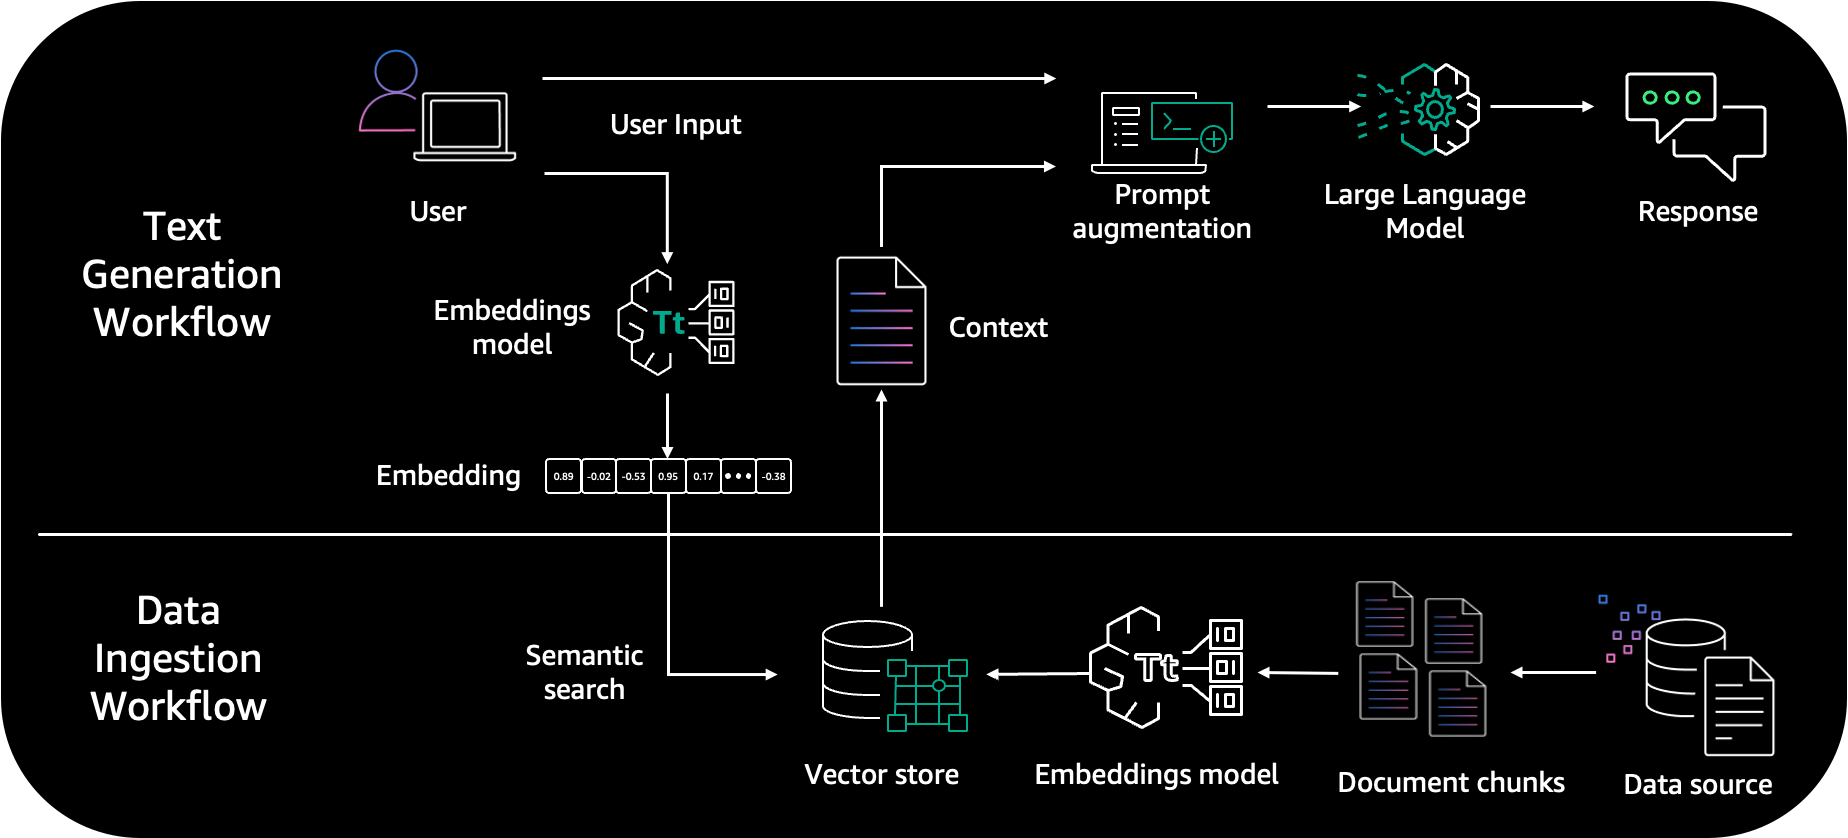
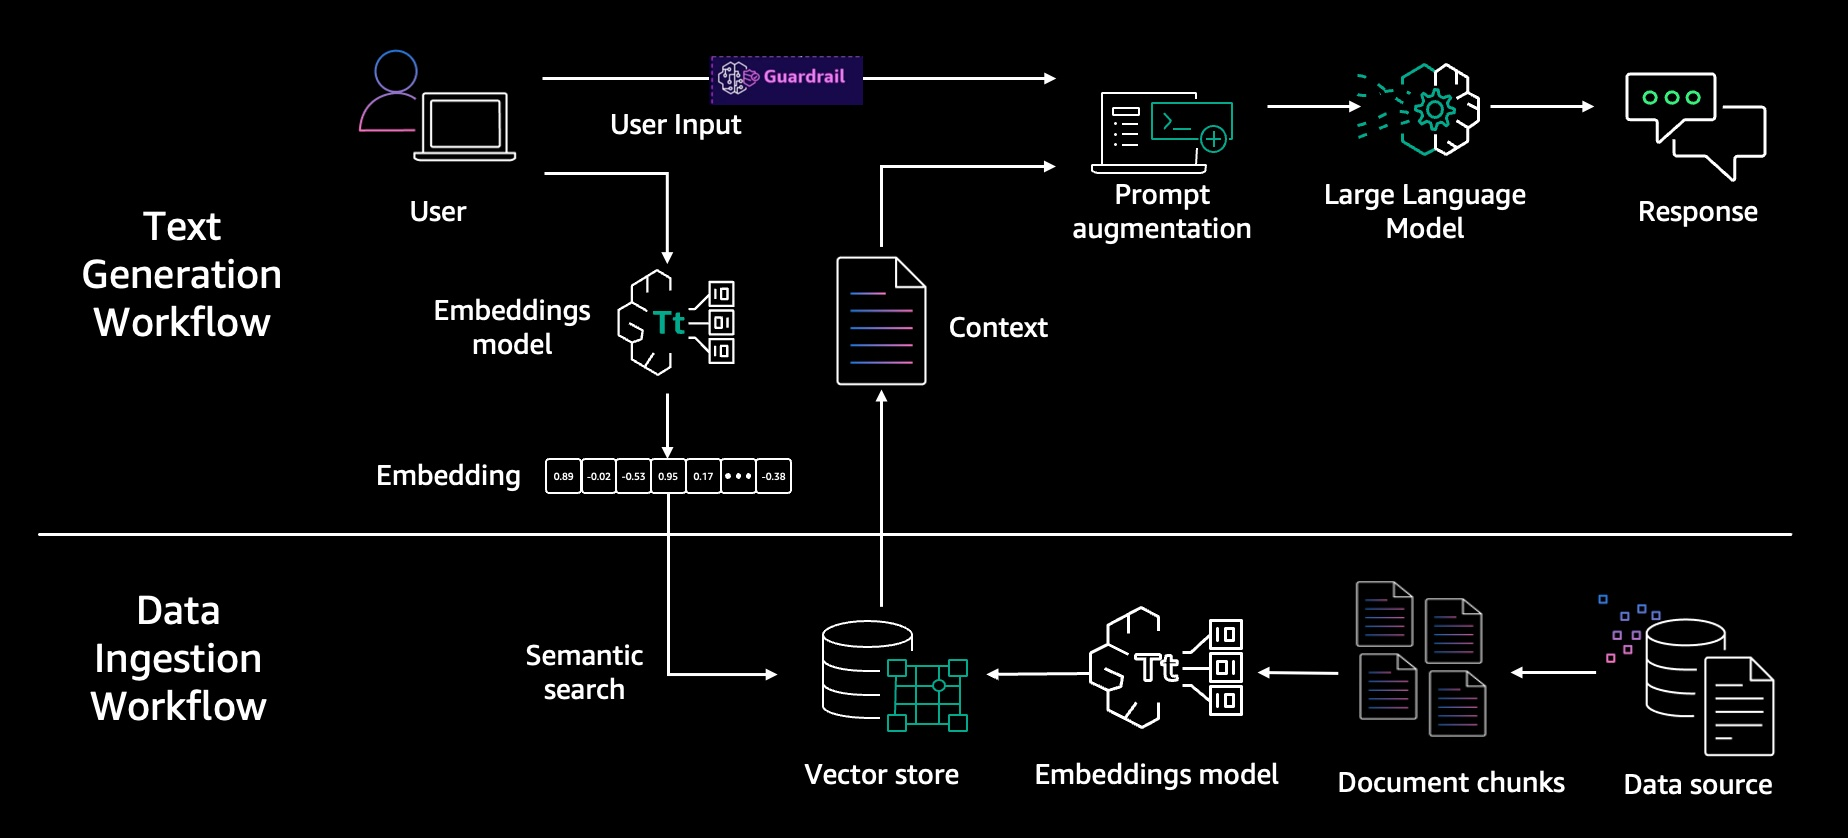
Updated the Readme and the Guardrail screenshot to make a step more clear.

diff --git a/rag-solutions/contextual-chatbot-using-knowledgebase-guardrails/README.md b/rag-solutions/contextual-chatbot-using-knowledgebase-guardrails/README.md
@@ -14,7 +14,7 @@ RAG is an approach to natural language generation that incorporates information 
 
 The data ingestion workflow uses LLMs to create embedding vectors that represent semantic meaning of texts. Embeddings are created for documents and user questions. The document embeddings are split into chunks and stored as indexes in a vector database. The text generation workflow then takes a question's embedding vector and uses it to retrieve the most similar document chunks based on vector similarity. It augments prompts with these relevant chunks to generate an answer using the LLM. For more details, refer to the Primer on Retrieval Augmented Generation, Embeddings, and Vector Databases section in [Preview – Connect Foundation Models to Your Company Data Sources with Agents for Amazon Bedrock](https://aws.amazon.com/blogs/aws/preview-connect-foundation-models-to-your-company-data-sources-with-agents-for-amazon-bedrock/).
 
-The following diagram illustrates the high-level RAG architecture.
+The following diagram illustrates the high-level RAG architecture with a Guardrail.
 
 </br><img src="images/architecture_1.jpg" alt="architecture1" width="800" align="center"/></br>
 
@@ -144,6 +144,8 @@ In this step, create a knowledge base using the Amazon shareholder letters datas
 
 </br><img src="images/kb-readysync.jpg" alt="kb-readysync" width="800" align="center"/></br>
 
+Congratulations, your Knowledge base is ready.
+
 20. Create a Guardrail
 </br><img src="images/gr-image.png" alt="gr-image" width="175" align="center"/></br>
 Click on the Create guardrail buttnon
@@ -155,7 +157,7 @@ Click next untill you reach to the  **Add word filters - optional** screen. Then
 Once the guardrail is created now we need to add a version. **Take a note of guardrail id.**
 </br><img src="images/gr-version.png" alt="gr-version" width="600" align="center"/></br>
 
-Congratulations, your Knowledge base is ready. 
+Congratulations, your Guardrail is ready. 
 
 Note that you can also use Knowledge Bases for Amazon Bedrock service APIs and the [AWS Command Line Interface](http://aws.amazon.com/cli) (AWS CLI) to programmatically create a knowledge base. You will need to run various sections of the Jupyter notebook provided under the /notebook folder in the code base you cloned earlier.
 
@@ -195,6 +197,10 @@ To test the chatbot application, complete the following steps:
 3.	Run the following command to install and set up a local Python development environment to run the Streamlit application:
 
 ```pip install streamlit```
+
+If you already have Streamlit, make sure you have a current version
+
+```pip install --upgrade streamlit```
 
 4.	Navigate to the /streamlit folder in the code base you cloned earlier.
 5.	Run the following command to instantiate the chatbot application:
